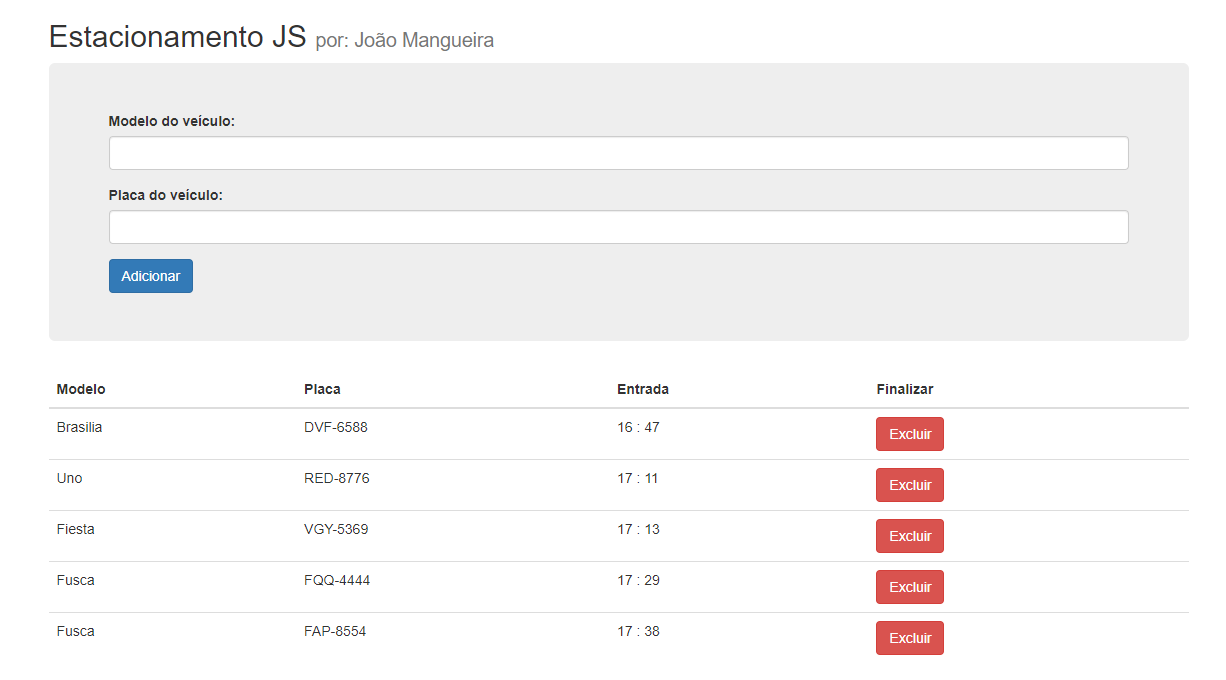
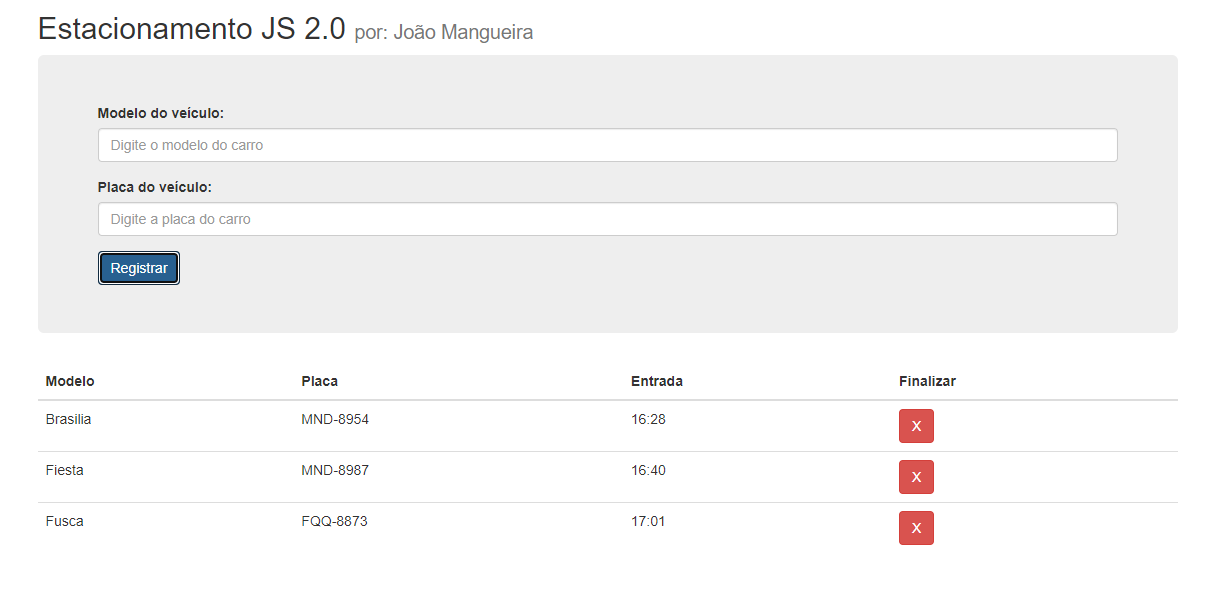
add readme

diff --git a/README.md b/README.md
@@ -5,7 +5,7 @@
  </p>
 <br>
 
-# Contagem para o ano novo
+# Sistema de estacionamento 2.0
 
 ## 🚀 Tecnologias
 
@@ -19,10 +19,15 @@ Esse projeto foi desenvolvido com as seguintes tecnologias:
 
 Projeto em JS para cadastrar carros em um estacionamento.
 
-Projeto inspirado na video aula do canal [Codigo de estagirio](https://www.youtube.com/watch?v=5YSsfuCgB5A&list=PLDLKWOQSNkl2eW1IMqTFfyfdhYAUvyMsm).
+[Primeiro projeto](https://github.com/jamangueira7/projeto-estacionamento-js)
+Projeto inspirado na video aula do canal [Código de Estagiário](https://www.youtube.com/watch?v=SjH5132XHlo).
 
 <p align="center">
   <img alt="animation" src=".github/imagem1.PNG" width="100%">
+</p>
+
+<p align="center">
+  <img alt="animation" src=".github/imagem2.PNG" width="100%">
 </p>
 
 ## 🚀 Como Rodar
